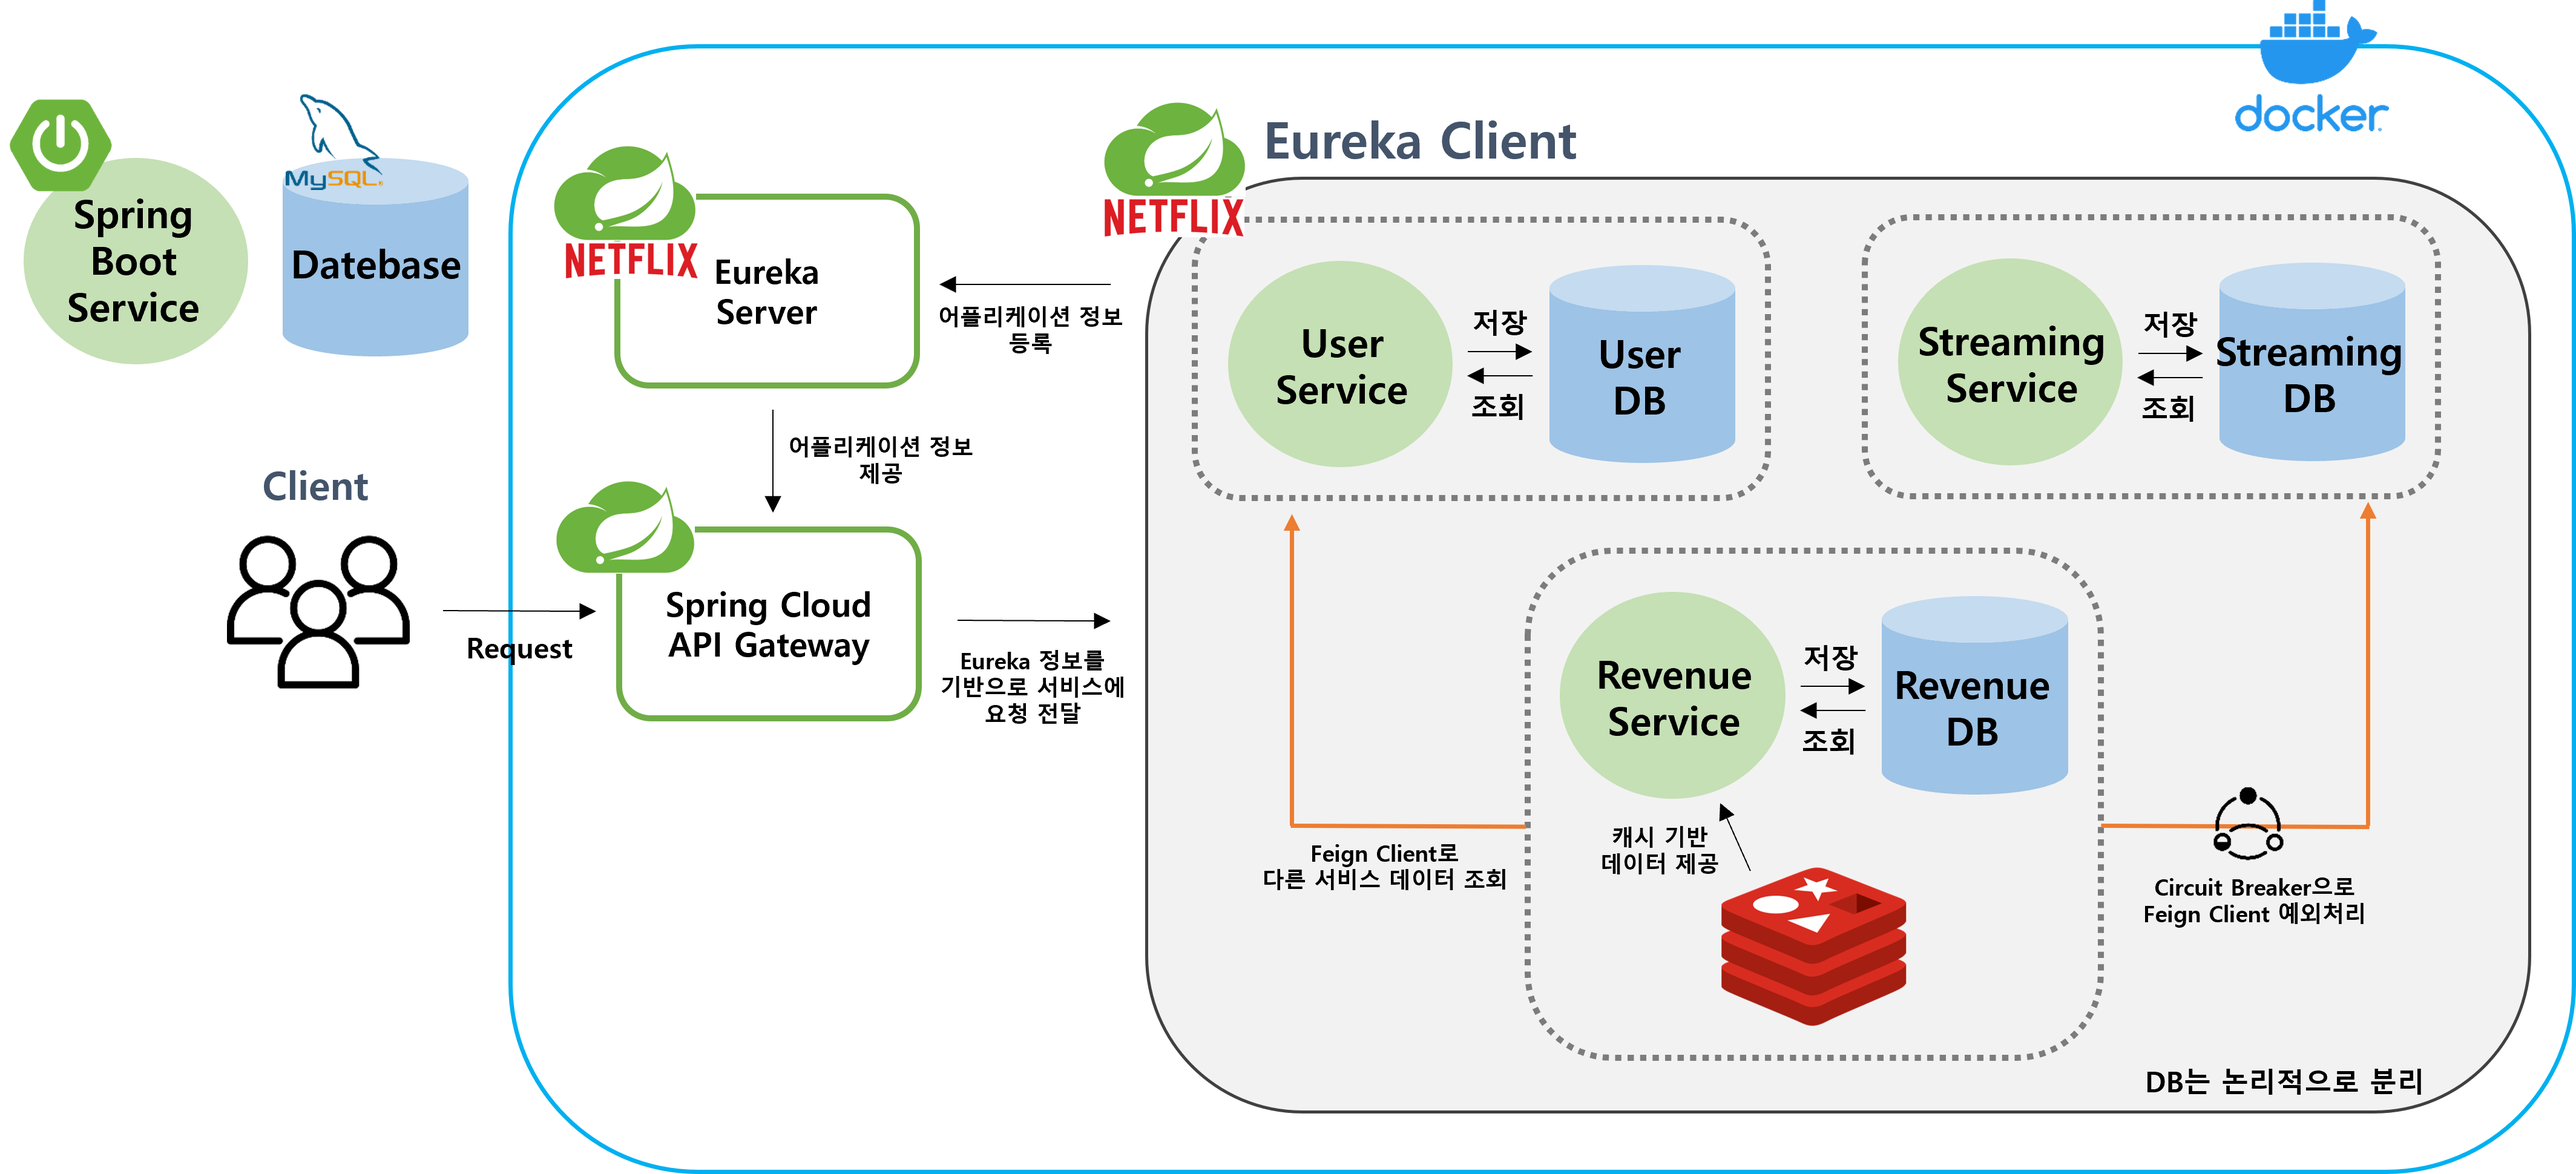
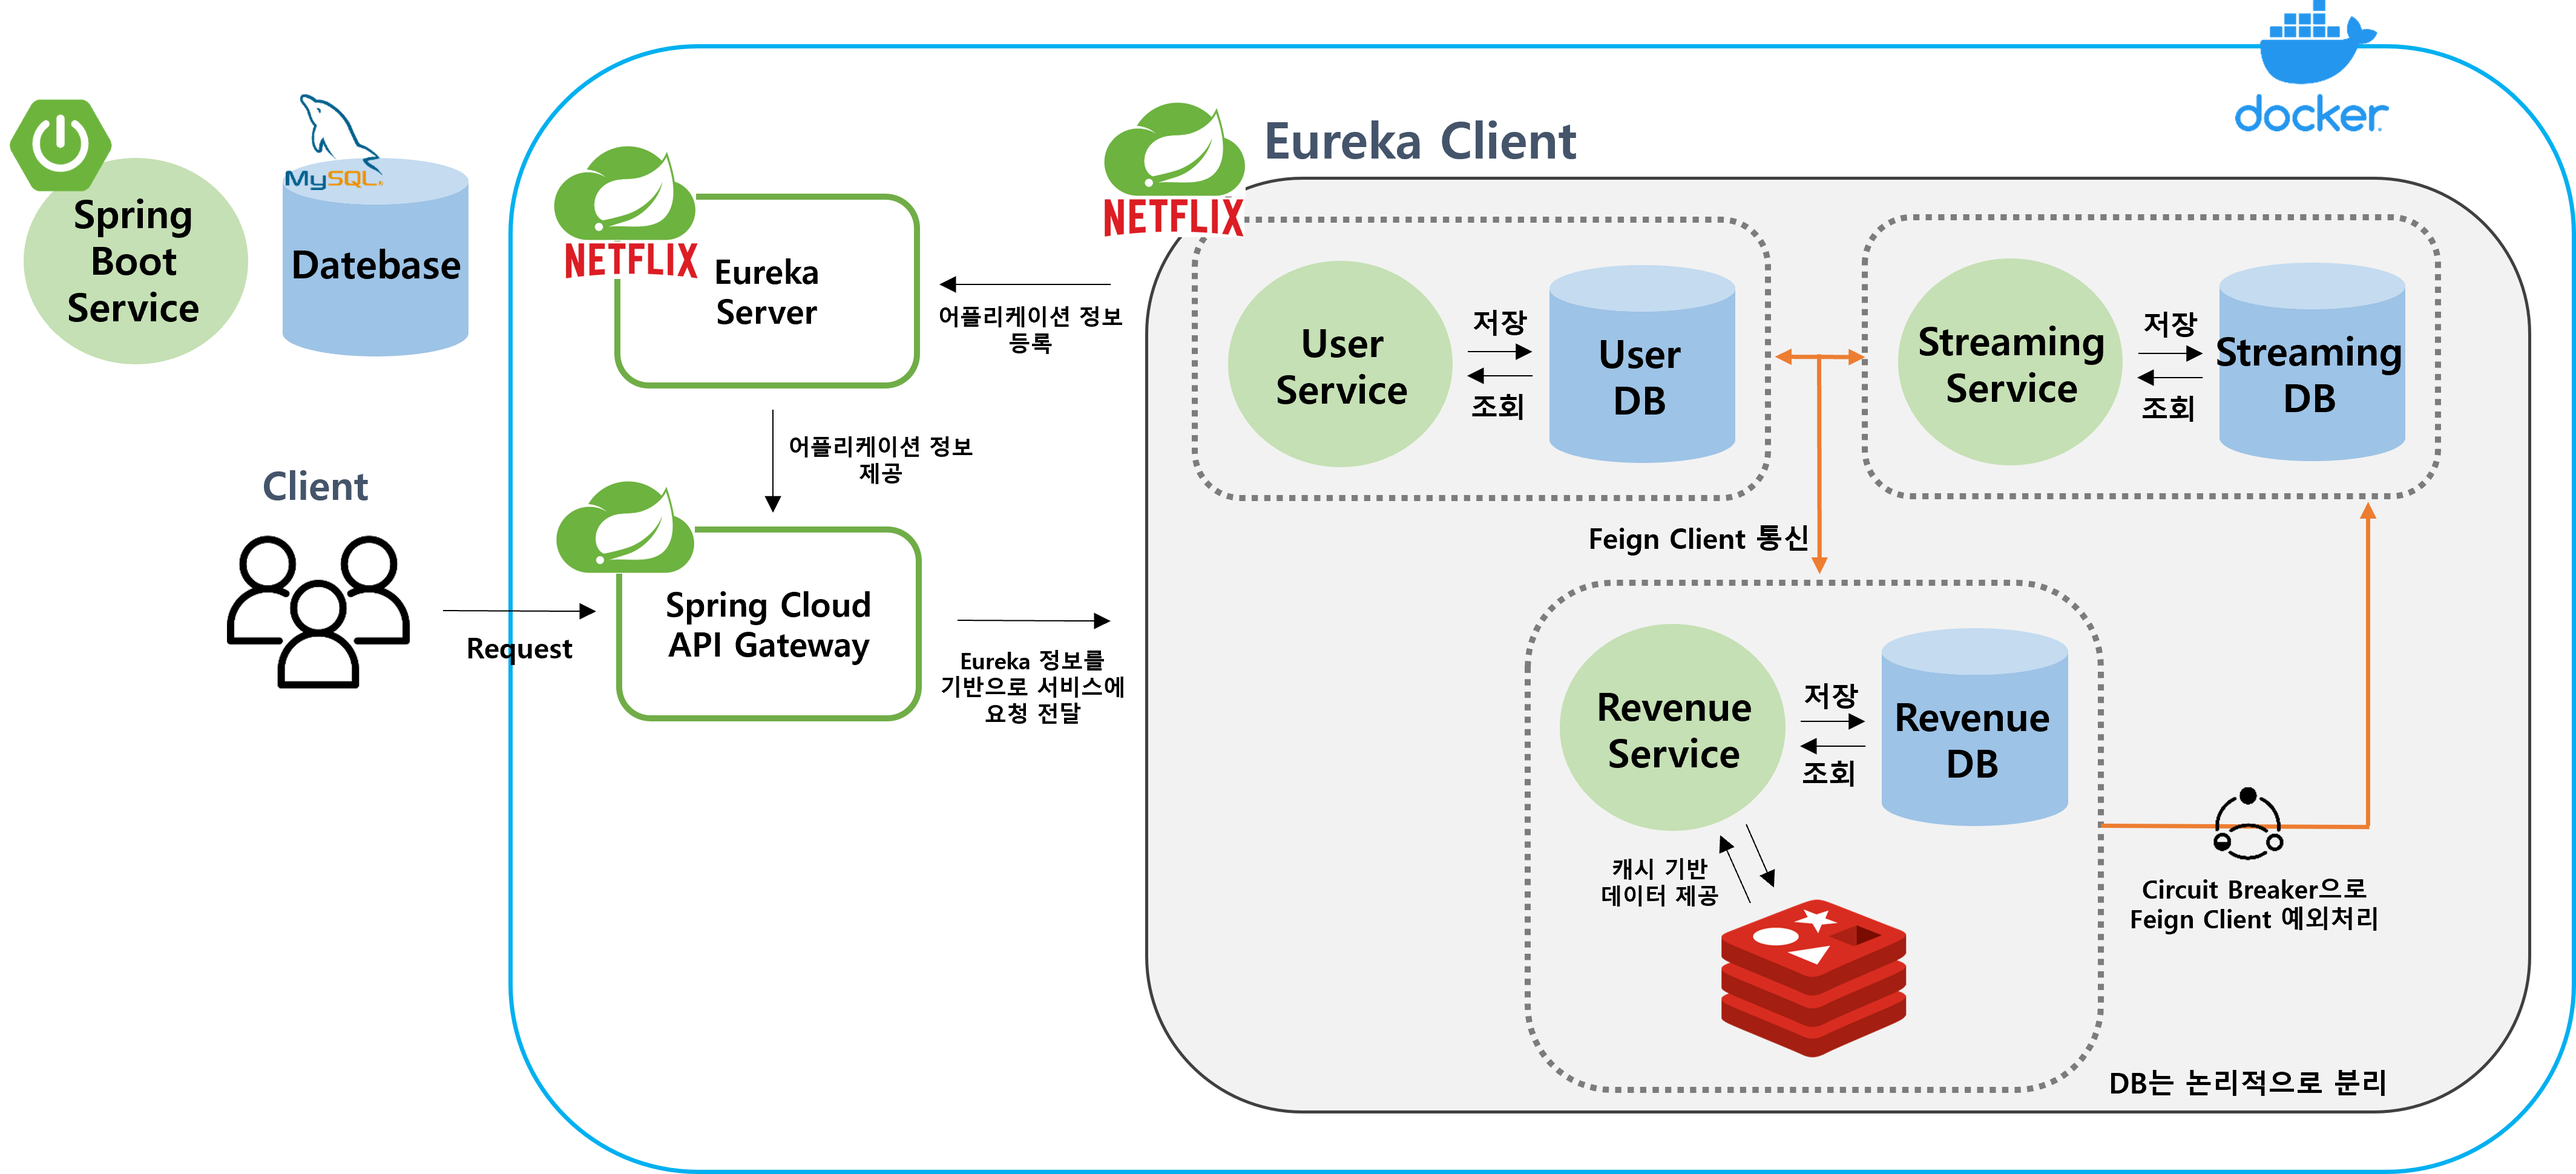
docs: Update README.md

diff --git a/README.md b/README.md
@@ -36,11 +36,11 @@ docker-compose up -d
 ![ex_screenshot](./image/paySystem_architecture.png)
 
 ### 주요 구성 요소
-- **Spring Cloud Gateway** : JWT 유효성을 검증하여 인증된 사용자만 서비스에 접근할 수 있도록 보안 레이어 구축
+- **Spring Cloud Gateway** : API 요청마다 JWT 유효성을 검증하여 인증된 사용자만 서비스에 접근할 수 있도록 보안 레이어 구축. 중앙화된 인증 및 권한 관리를 지원
 - **Eureka Server** : 오토 스케일링되는 인스턴스의 IP를 게이트웨이가 자동으로 인식하여 동적 라우팅과 로드 밸런싱을 지원할 수 있도록 등록 관리 시스템 구축
-- **MySQL** : 각 서비스에 맞는 테이블을 논리적으로 분리하여 사용함으로써 확장성 확보와 데이터 일관성을 유지
-- **Redis** : 대량 데이터를 조회 시 캐싱을 사용하여 조회 성능 최적화
-- **Docker-Compose** : 모든 서비스를 컨테이너화해 독립적으로 실행 가능하며, 서비스 간의 연결 및 관리를 용이하게 구현
+- **MySQL** : 각 서비스에 맞는 테이블을 논리적으로 분리하여 사용함으로써 확장성과 데이터 일관성을 유지
+- **Redis** : 대량 데이터를 조회 시 Read-Aside 캐싱을 사용하여 조회 성능 극대화
+- **Docker-Compose** : 모든 서비스를 컨테이너화해 독립적으로 실행 가능하며, 환경 간의 일관성 유지
 
 ### 각 서비스의 주요 역할 
 
